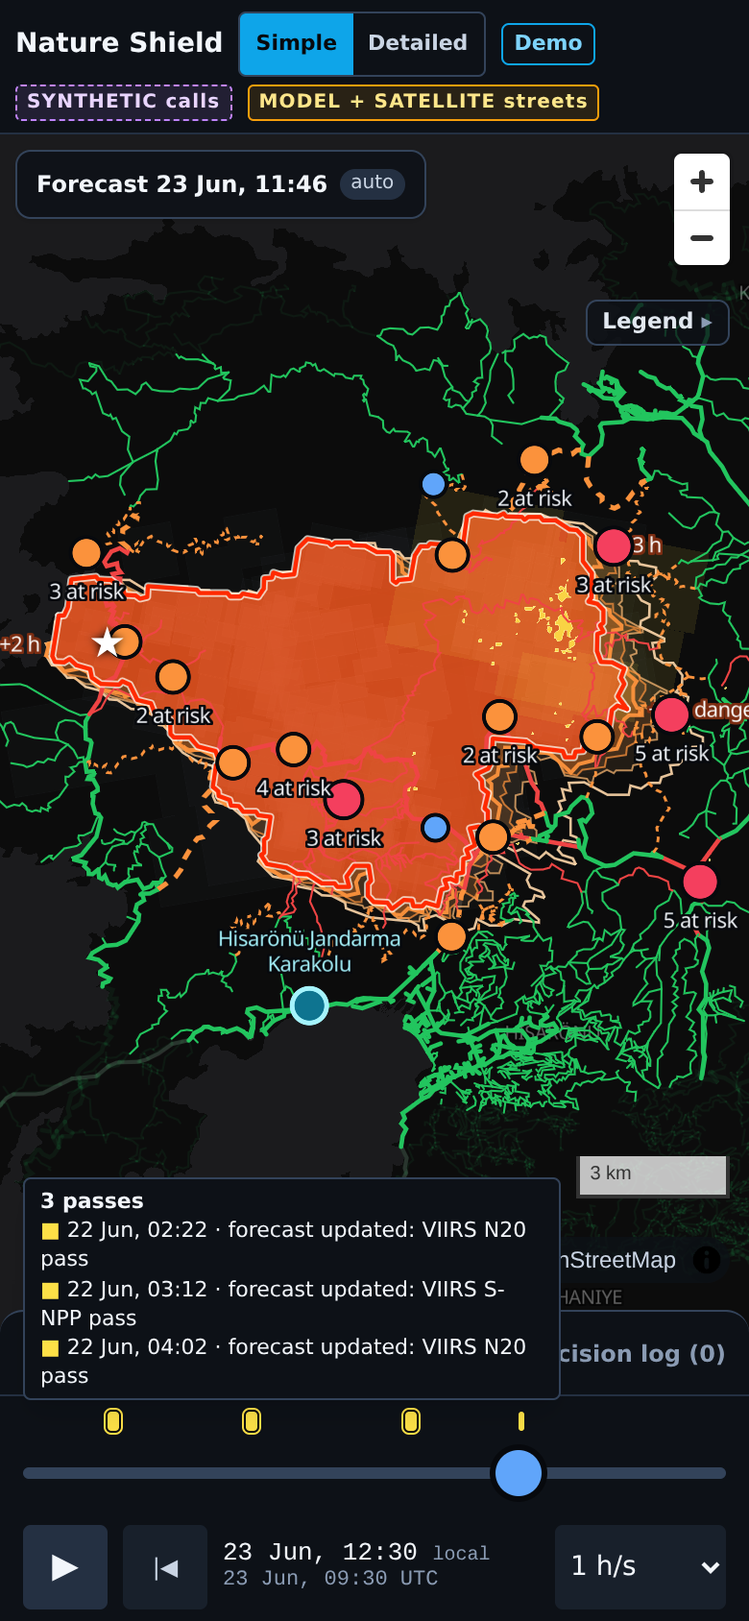
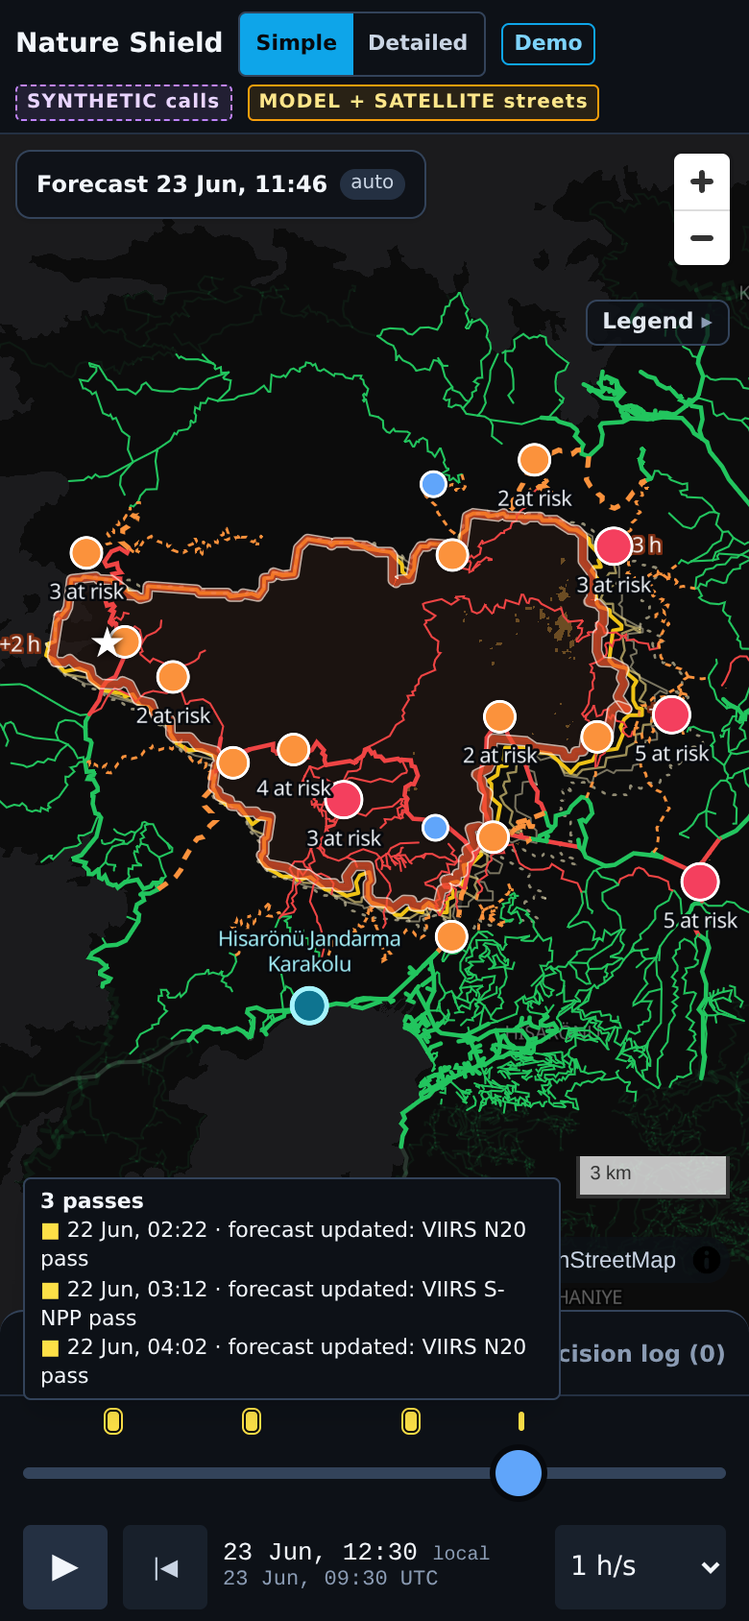
Calmer fire in Simple: dark burned ground, one bright front band, line-only horizons
Simple mode was tiring to look at: the whole estimated fire was bright orange and the satellite
squares piled up on top. Now:
- Inside "Fire now (estimated)" is burned ground: #2a1a14 at 50 %.
- The active front is a 300 m band along the estimated edge (half inside, half outside), one
  red-orange at 70 % with thin light edges: the first thing the eye finds.
- Satellite detections in Simple: only VIIRS pixels of the last 3 hours, 30 %, no edges; older ones
  and the 1 km MODIS / SLSTR squares are not drawn. Detailed is unchanged.
- Horizons are lines only: +1 h yellow 2 px, +2 / +3 h thinner and fainter, +6 h dotted; tags kept.
- Callers have a thin white edge and a soft dark shadow.

Before / after screenshots at 22 June 09:00 and 23 June 11:51 (desktop and phone) in docs/calm_*;
the other screenshots refreshed.

Changed region(s): [[0.0615, 0.2773, 1.0, 0.5853], [0.8923, 0.5237, 0.9538, 0.5545]]

diff --git a/src/components/MapView.tsx b/src/components/MapView.tsx
@@ -21,20 +21,35 @@ export type LayerKey = 'forecast' | 'initial' | 'observed' | 'streets' | 'nearby
 export type MapMode = 'simple' | 'detailed';
 
 /** Layers that only exist in Detailed mode. */
-const DETAILED_ONLY = ['initial-pending', 'initial-reached', 'initial-label', 'streets-nearby', 'burned-area'];
+const DETAILED_ONLY = ['initial-pending', 'initial-reached', 'initial-label', 'streets-nearby', 'burned-area', 'hotspots-old'];
 /** Layers that only exist in Simple mode. */
 const SIMPLE_ONLY: string[] = [];
-/** "Fire now (estimated)": the strongest thing on the map, bright orange-red with a clear edge. */
-export const NOWCAST_COLOUR = '#ff4d1a';
-export const NOWCAST_EDGE = '#ff2a00';
-/** Horizons from the time shown: +1 h a clear "danger zone", +2 / +3 h lighter, +6 h only an outline. */
-export const ZONE_COLOUR = { h1: '#f97316', h2: '#fb923c', h3: '#fdba74', h6: '#fed7aa' } as const;
+/** "Fire now (estimated)": inside, burned ground (dark, low saturation, quiet); along its edge the active front, a
+ * band of FRONT_WIDTH_M in one red-orange with thin light edges: the thing the eye should find first. */
+export const NOWCAST_COLOUR = '#2a1a14';
+export const NOWCAST_OPACITY = 0.5;
+export const FRONT_COLOUR = '#f0532b';
+export const FRONT_EDGE = '#ffe2d4';
+export const FRONT_WIDTH_M = 300;
+/** Kept for swatches that show the estimated fire by its edge. */
+export const NOWCAST_EDGE = FRONT_COLOUR;
+/** Horizons from the time shown, lines only: +1 h yellow and clear, +2 / +3 h thinner and fainter, +6 h dotted. */
+export const ZONE_COLOUR = { h1: '#facc15', h2: '#fde68a', h3: '#fef3c7', h6: '#fef3c7' } as const;
 /** Kept for the legend of the forecast closure and older references. */
-export const FORECAST_FILL_COLOUR = ZONE_COLOUR.h1;
-/** Satellite detections of the last ACTIVE_FIRE_H hours are bright (active fire); older ones dark grey (burned). */
+export const FORECAST_FILL_COLOUR = '#f97316';
+/** Satellite detections. Simple: only VIIRS of the last SIMPLE_FIRE_H hours, small and faint (the burned ground
+ * already covers the older ones). Detailed: the last ACTIVE_FIRE_H hours bright, older ones dark grey. */
 export const ACTIVE_FIRE_H = 6;
+export const SIMPLE_FIRE_H = 3;
 export const ACTIVE_FIRE_COLOUR = '#fde047';
+export const SIMPLE_FIRE_COLOUR = '#ffb547';
 export const OLD_FIRE_COLOUR = '#4b5563';
+
+/** Line width in pixels of `metres` on the ground at this map latitude (about 36.85° N), for any zoom. */
+function metresWidth(metres: number): ExpressionSpecification {
+  const mpp0 = 156543.03 * Math.cos((36.85 * Math.PI) / 180);       // metres per pixel at zoom 0
+  return ['interpolate', ['exponential', 2], ['zoom'], 8, (metres * 2 ** 8) / mpp0, 18, (metres * 2 ** 18) / mpp0];
+}
 /** Streets closed by the forecast only: orange, dashed; observed closures are solid red. */
 export const FORECAST_CLOSURE_COLOUR = '#fb923c';
 
@@ -42,12 +57,12 @@ export const FORECAST_CLOSURE_COLOUR = '#fb923c';
 const NEARBY_RADIUS_M = 1000;
 
 const LAYER_GROUPS: Record<LayerKey, string[]> = {
-  forecast: ['forecast-zones', 'forecast-zone-lines', 'nowcast-fill', 'nowcast-casing', 'nowcast-edge', 'forecast-tag'],
+  forecast: ['forecast-zone-lines', 'forecast-zone-dotted', 'nowcast-fill', 'front-band', 'front-edges', 'forecast-tag'],
   initial: ['initial-pending', 'initial-reached', 'initial-label'],
   observed: ['hotspots-old', 'hotspots', 'burned-area', 'flame-front'],
   streets: ['streets-near', 'streets', 'streets-forecast'],
   nearby: ['streets-nearby'],
-  callers: ['callers-selected', 'callers', 'callers-label'],
+  callers: ['callers-shadow', 'callers-selected', 'callers', 'callers-label'],
   crews: ['routes-casing', 'routes', 'routes-cut', 'responders', 'responders-label'],
   concept: ['report-points', 'cluster-fill', 'cluster-line', 'cluster-line-confirmed', 'cluster-label'],
 };
@@ -175,8 +190,13 @@ export function MapView({ data, now, layers, selectedId, nearIds, stages, routes
     map.setFilter('initial-pending', ['all', initial, ['>', ['get', 't'], t]]);
     // Satellite detections: the last ACTIVE_FIRE_H hours are active fire (bright), older ones burned (dark grey).
     const recent: ExpressionSpecification = ['>', ['get', 't'], t - ACTIVE_FIRE_H * 3600000];
-    map.setFilter('hotspots', ['all', obs('hotspots'), upTo, recent]);
-    map.setFilter('flame-front', ['all', obs('flame_front'), upTo]);
+    const simpleMode = latest.current.mode === 'simple';
+    // Simple: only VIIRS of the last SIMPLE_FIRE_H hours (the 1 km pixels are large squares that hide the map).
+    map.setFilter('hotspots', simpleMode
+      ? ['all', obs('hotspots'), upTo, ['>', ['get', 't'], t - SIMPLE_FIRE_H * 3600000], ['==', ['get', 'instrument'], 'VIIRS']]
+      : ['all', obs('hotspots'), upTo, recent]);
+    map.setFilter('flame-front', simpleMode ? ['all', obs('flame_front'), upTo, ['>', ['get', 't'], t - SIMPLE_FIRE_H * 3600000]]
+      : ['all', obs('flame_front'), upTo]);
     map.setFilter('burned-area', ['all', obs('burned_area'), upTo]);
     map.setFilter('streets-near', ['in', ['get', 'id'], ['literal', near]]);
     // Blocked by a satellite detection only (the model has not reached the street yet): dashed red.
@@ -187,13 +207,14 @@ export function MapView({ data, now, layers, selectedId, nearIds, stages, routes
     map.setFilter('streets', ['!', forecastOnlyExpr]);
     // Active fire: one bright colour in Simple, the sensor colours in Detailed. The 1 km MODIS / SLSTR pixels stay
     // light so they do not hide the estimated fire under them.
-    map.setPaintProperty('hotspots', 'fill-color', simple ? ACTIVE_FIRE_COLOUR : INSTRUMENT_COLOUR);
-    map.setPaintProperty('hotspots', 'fill-opacity', ['match', ['get', 'instrument'], 'VIIRS', simple ? 0.32 : 0.4, simple ? 0.1 : 0.15]);
+    map.setPaintProperty('hotspots', 'fill-color', simple ? SIMPLE_FIRE_COLOUR : INSTRUMENT_COLOUR);
+    map.setPaintProperty('hotspots', 'fill-opacity', ['match', ['get', 'instrument'], 'VIIRS', simple ? 0.3 : 0.4, simple ? 0.1 : 0.15]);
     map.setPaintProperty('hotspots', 'fill-outline-color', simple ? 'rgba(0,0,0,0)' : INSTRUMENT_COLOUR);
     // Older detections (burned): dark grey in both modes, the 1 km pixels hardly at all.
     map.setFilter('hotspots-old', ['all', obs('hotspots'), upTo, ['!', recent]]);
-    map.setPaintProperty('flame-front', 'fill-color', ['case', recent, ACTIVE_FIRE_COLOUR, OLD_FIRE_COLOUR]);
-    map.setPaintProperty('flame-front', 'fill-opacity', ['case', recent, 0.9, 0.5]);
+    map.setPaintProperty('flame-front', 'fill-color', simple ? SIMPLE_FIRE_COLOUR : ['case', recent, ACTIVE_FIRE_COLOUR, OLD_FIRE_COLOUR]);
+    map.setPaintProperty('flame-front', 'fill-opacity', simple ? 0.35 : ['case', recent, 0.9, 0.5]);
+    map.setPaintProperty('flame-front', 'fill-outline-color', simple ? 'rgba(0,0,0,0)' : '#fef08a');
 
     // Fire nearby: a coarse pixel covers the street and neither source has closed it yet. (Not `t > now`:
     // a street that is never closed has t = scenario start.)
@@ -301,21 +322,23 @@ export function MapView({ data, now, layers, selectedId, nearIds, stages, routes
       // active fire of the last hours on top of it. All under the streets, so roads stay readable.
       map.addLayer({ id: 'hotspots-old', type: 'fill', source: 'fire',
         paint: { 'fill-color': OLD_FIRE_COLOUR, 'fill-opacity': ['match', ['get', 'instrument'], 'VIIRS', 0.32, 0.05] } });
-      map.addLayer({ id: 'forecast-zones', type: 'fill', source: 'nowcast', filter: ['match', ['get', 'role'], ['h1', 'h2', 'h3'], true, false],
-        paint: { 'fill-color': ['match', ['get', 'role'], 'h1', ZONE_COLOUR.h1, 'h2', ZONE_COLOUR.h2, ZONE_COLOUR.h3],
-          'fill-opacity': ['match', ['get', 'role'], 'h1', 0.3, 'h2', 0.15, 0.09] } });
       map.addLayer({ id: 'nowcast-fill', type: 'fill', source: 'nowcast', filter: ['==', ['get', 'role'], 'now'],
-        paint: { 'fill-color': NOWCAST_COLOUR, 'fill-opacity': 0.62 } });
+        paint: { 'fill-color': NOWCAST_COLOUR, 'fill-opacity': NOWCAST_OPACITY } });
       map.addLayer({ id: 'hotspots', type: 'fill', source: 'fire',
         paint: { 'fill-color': INSTRUMENT_COLOUR, 'fill-opacity': ['match', ['get', 'instrument'], 'VIIRS', 0.3, 0.1] } });
       map.addLayer({ id: 'burned-area', type: 'line', source: 'fire',
         paint: { 'line-color': '#9ca3af', 'line-width': 1.5, 'line-opacity': 0.8 } });
       map.addLayer({ id: 'flame-front', type: 'fill', source: 'fire',
         paint: { 'fill-color': ACTIVE_FIRE_COLOUR, 'fill-opacity': 0.9, 'fill-outline-color': '#fef08a' } });
-      map.addLayer({ id: 'forecast-zone-lines', type: 'line', source: 'nowcast', filter: ['!=', ['get', 'role'], 'now'],
-        paint: { 'line-color': ['match', ['get', 'role'], 'h1', '#fb923c', 'h2', ZONE_COLOUR.h2, 'h3', ZONE_COLOUR.h3, ZONE_COLOUR.h6],
-          'line-width': ['match', ['get', 'role'], 'h1', 2, 'h6', 1.3, 1],
-          'line-opacity': ['match', ['get', 'role'], 'h1', 0.95, 'h6', 0.9, 0.7] } });
+      // Horizons: lines only, +1 h clear, +2 / +3 h thinner and fainter, +6 h dotted.
+      map.addLayer({ id: 'forecast-zone-lines', type: 'line', source: 'nowcast', filter: ['match', ['get', 'role'], ['h1', 'h2', 'h3'], true, false],
+        layout: { 'line-join': 'round' },
+        paint: { 'line-color': ['match', ['get', 'role'], 'h1', ZONE_COLOUR.h1, 'h2', ZONE_COLOUR.h2, ZONE_COLOUR.h3],
+          'line-width': ['match', ['get', 'role'], 'h1', 2, 'h2', 1.2, 1],
+          'line-opacity': ['match', ['get', 'role'], 'h1', 0.95, 'h2', 0.6, 0.45] } });
+      map.addLayer({ id: 'forecast-zone-dotted', type: 'line', source: 'nowcast', filter: ['==', ['get', 'role'], 'h6'],
+        layout: { 'line-cap': 'round', 'line-join': 'round' },
+        paint: { 'line-color': ZONE_COLOUR.h6, 'line-width': 1.4, 'line-opacity': 0.55, 'line-dasharray': [0.1, 2.5] } });
 
       map.addLayer({ id: 'streets-near', type: 'line', source: 'streets',
         layout: { 'line-cap': 'round' }, paint: { 'line-color': '#ffffff', 'line-width': 9, 'line-opacity': 0.9 } });
@@ -341,11 +364,14 @@ export function MapView({ data, now, layers, selectedId, nearIds, stages, routes
             10, ['match', ['get', 'highway'], 'track', 1.2, 2.2],
             14, ['match', ['get', 'highway'], 'track', 2.6, 4.5]] } });
 
-      // The edge of the estimated fire now: over the streets, so it stays the clearest line on the map.
-      map.addLayer({ id: 'nowcast-casing', type: 'line', source: 'nowcast', filter: ['==', ['get', 'role'], 'now'],
-        layout: { 'line-join': 'round' }, paint: { 'line-color': '#fff7ed', 'line-width': 4, 'line-opacity': 0.75 } });
-      map.addLayer({ id: 'nowcast-edge', type: 'line', source: 'nowcast', filter: ['==', ['get', 'role'], 'now'],
-        layout: { 'line-join': 'round' }, paint: { 'line-color': NOWCAST_EDGE, 'line-width': 2.2 } });
+      // The active front: a band of FRONT_WIDTH_M along the edge of the estimated fire (half inside, half outside: the
+      // edge is an estimate), one colour, with thin light edges. Under the routes and callers.
+      map.addLayer({ id: 'front-band', type: 'line', source: 'nowcast', filter: ['==', ['get', 'role'], 'now'],
+        layout: { 'line-join': 'round', 'line-cap': 'round' },
+        paint: { 'line-color': FRONT_COLOUR, 'line-opacity': 0.7, 'line-width': metresWidth(FRONT_WIDTH_M) } });
+      map.addLayer({ id: 'front-edges', type: 'line', source: 'nowcast', filter: ['==', ['get', 'role'], 'now'],
+        layout: { 'line-join': 'round' },
+        paint: { 'line-color': FRONT_EDGE, 'line-opacity': 0.75, 'line-width': 0.8, 'line-gap-width': metresWidth(FRONT_WIDTH_M) } });
 
       // Crew routes: drawn over the streets; a route cut by a newly blocked street turns dashed amber.
       map.addLayer({ id: 'routes-casing', type: 'line', source: 'streets', layout: { 'line-cap': 'round', 'line-join': 'round' },
@@ -383,13 +409,18 @@ export function MapView({ data, now, layers, selectedId, nearIds, stages, routes
           'text-offset': [0, -1.4], 'text-anchor': 'bottom', 'text-allow-overlap': false, 'text-padding': 4 },
         paint: { 'text-color': '#a5f3fc', 'text-halo-color': '#07090d', 'text-halo-width': 1.5 } });
 
+      // A soft dark shadow under each caller, so the dots stay readable on the fire.
+      map.addLayer({ id: 'callers-shadow', type: 'circle', source: 'callers',
+        paint: { 'circle-radius': ['match', ['get', 'urgency'], 'life_threat', 13, 'urgent', 11.5, 10], 'circle-color': '#000000',
+          'circle-opacity': 0.45, 'circle-blur': 0.6 } });
       map.addLayer({ id: 'callers-selected', type: 'circle', source: 'callers',
         paint: { 'circle-radius': 17, 'circle-color': 'rgba(255,255,255,0.15)', 'circle-stroke-color': '#ffffff', 'circle-stroke-width': 2.5 } });
       map.addLayer({ id: 'callers', type: 'circle', source: 'callers',
         paint: { 'circle-radius': ['match', ['get', 'urgency'], 'life_threat', 9, 'urgent', 7.5, 6],
           'circle-color': ['get', 'colour'],
-          'circle-stroke-color': ['match', ['get', 'stage'], 'new', '#07090d', ['get', 'ring']],
-          'circle-stroke-width': ['match', ['get', 'stage'], 'new', 2, 'taken', 2.5, 3.5] } });
+          // A new caller has a thin white edge; once handled the ring takes the stage colour.
+          'circle-stroke-color': ['match', ['get', 'stage'], 'new', '#ffffff', ['get', 'ring']],
+          'circle-stroke-width': ['match', ['get', 'stage'], 'new', 1.5, 'taken', 2.5, 3.5] } });
       // CONCEPT DEMO: reports from people (points) and candidate clusters (uncertainty discs, dashed until confirmed).
       map.addSource('report-points', { type: 'geojson', data: { type: 'FeatureCollection', features: [] } });
       map.addSource('clusters', { type: 'geojson', data: { type: 'FeatureCollection', features: [] } });
@@ -424,7 +455,7 @@ export function MapView({ data, now, layers, selectedId, nearIds, stages, routes
 
       // One click handler, most specific feature first: caller, response point, street, fire front.
       const CLICKABLE = ['callers', 'report-points', 'cluster-fill', 'responders', 'streets', 'streets-forecast', 'flame-front', 'hotspots',
-        'nowcast-fill', 'forecast-zones', 'forecast-zone-lines', 'initial-reached', 'initial-pending', 'burned-area', 'hotspots-old'];
+        'front-band', 'nowcast-fill', 'forecast-zone-lines', 'forecast-zone-dotted', 'initial-reached', 'initial-pending', 'burned-area', 'hotspots-old'];
       const muted = (text: string) => `<div class="ns-muted">${text}</div>`;
       const tag = (p: { synthetic?: boolean; basis?: string }) => (p.synthetic ? '<span class="synthetic-tag">SYNTHETIC</span>'
         : p.basis === 'fire_model' ? '<span class="model-tag">MODEL OUTPUT</span>'
@@ -502,7 +533,7 @@ export function MapView({ data, now, layers, selectedId, nearIds, stages, routes
             + (closure && (p.ts ?? 9e15) <= t && (p.satellite_reason ?? p.reason) ? muted(p.satellite_reason ?? p.reason ?? '') : '')
             + (p.imagery_date ? muted(`Imagery: ${p.imagery_date}`) : '')
             + muted(p.confirmed_by_operator ? 'Confirmed by operator' : 'Not confirmed by an operator') + tag(p);
-        } else if (['nowcast-fill', 'forecast-zones', 'forecast-zone-lines'].includes(hit.layer.id)) {
+        } else if (['front-band', 'nowcast-fill', 'forecast-zone-lines', 'forecast-zone-dotted'].includes(hit.layer.id)) {
           const nc = latest.current.nowcast;
           if (!nc) return;
           const role = hit.properties.role as string;
@@ -510,8 +541,9 @@ export function MapView({ data, now, layers, selectedId, nearIds, stages, routes
           const src = nowcastSource(nc.run, (x) => fmtTime(x, tz));
           html = role === 'now'
             ? `<b>Fire now (estimated)</b><div>Modelled fire extent for ${fmtTime(f.valid_t, tz)}, P ≥ 50 % · ${f.area_km2.toFixed(1)} km²</div>`
+              + `<div>Dark inside: burned ground. Bright band: the active front (${FRONT_WIDTH_M} m along the estimated edge).</div>`
               + `<div>${src}</div>` + muted(`Forecast issued ${fmtTime(nc.run.issuedAt, tz)}, advanced ${f.step} h. A model estimate, not an observation.`)
-            : `<b>${role === 'h1' ? 'Danger zone: fire within 1 h' : `Forecast +${f.h} h`}</b>`
+            : `<b>${role === 'h1' ? 'Fire within 1 h (+1 h line)' : `Forecast +${f.h} h`}</b>`
               + `<div>Modelled fire extent by ${fmtTime(f.valid_t, tz)}, P ≥ 50 % · ${f.area_km2.toFixed(1)} km²</div>`
               + muted(`Forecast issued ${fmtTime(nc.run.issuedAt, tz)} from ${nc.run.from}`);
         } else {
@@ -633,7 +665,7 @@ function nowcastTagPoints(nc: Nowcast | null): GeoJSON.FeatureCollection {
     const pts = rings.flat();
     if (!pts.length) continue;
     const tip = (score: (c: number[]) => number) => pts.reduce((a, b) => (score(b) > score(a) ? b : a));
-    const text = p.role === 'now' ? 'Fire now (est.)' : p.role === 'h1' ? '+1 h danger zone' : `+${p.h} h`;
+    const text = p.role === 'now' ? 'Fire front (est.)' : `+${p.h} h`;
     for (const [side, score] of sides[p.role]) {
       features.push({ type: 'Feature', geometry: { type: 'Point', coordinates: tip(score) },
         properties: { role: p.role, horizon_hours: p.h, text, side, run_id: p.run_id } });
@@ -643,20 +675,20 @@ function nowcastTagPoints(nc: Nowcast | null): GeoJSON.FeatureCollection {
 }
 
 /** A line sample for the legend: solid, dashed or a halo, in the given colour. */
-function LineKey({ colour, dashed, halo, casing }: { colour: string; dashed?: boolean; halo?: boolean; casing?: string }) {
+function LineKey({ colour, dashed, dotted, halo, casing }: { colour: string; dashed?: boolean; dotted?: boolean; halo?: boolean; casing?: string }) {
   return (
     <svg width="26" height="10" aria-hidden="true" className="shrink-0">
       {casing && <line x1="2" y1="5" x2="24" y2="5" stroke={casing} strokeWidth="7" strokeLinecap="round" />}
       <line x1="2" y1="5" x2="24" y2="5" stroke={colour} strokeWidth={halo ? 8 : 3} strokeOpacity={halo ? 0.7 : 1}
-        strokeDasharray={dashed ? '4 3' : undefined} strokeLinecap={dashed ? 'butt' : 'round'} />
+        strokeDasharray={dashed ? '4 3' : dotted ? '0.1 4' : undefined} strokeLinecap={dashed ? 'butt' : 'round'} />
     </svg>
   );
 }
 
-function DotKey({ fill, ring }: { fill: string; ring?: string }) {
+function DotKey({ fill, ring, thin }: { fill: string; ring?: string; thin?: boolean }) {
   return (
     <svg width="26" height="14" aria-hidden="true" className="shrink-0">
-      <circle cx="13" cy="7" r="5" fill={fill} stroke={ring ?? '#07090d'} strokeWidth={ring ? 2.5 : 1.5} />
+      <circle cx="13" cy="7" r="5" fill={fill} stroke={ring ?? '#07090d'} strokeWidth={thin ? 1.2 : ring ? 2.5 : 1.5} />
     </svg>
   );
 }
@@ -691,29 +723,29 @@ function Legend({ mode, nearby, nowcast, timeZone }: { mode: MapMode; nearby: bo
           {row(<LineKey colour="#22d3ee" casing="#083344" />, 'Crew route')}
           {row(<LineKey colour="#fbbf24" dashed casing="#083344" />, 'Route cut')}
           <div className="pt-0.5" />
-          {row(<AreaKey fill={NOWCAST_COLOUR} opacity={0.75} edge={NOWCAST_EDGE} />, 'Fire now (estimated)')}
+          {row(<LineKey colour={FRONT_COLOUR} halo />, 'Active front (estimated)')}
+          {row(<AreaKey fill={NOWCAST_COLOUR} opacity={0.9} edge="#6b4a3e" />, 'Burned (estimated, inside the front)')}
           {nowcast && (
             <div className="whitespace-normal pl-8 text-[10px] leading-tight text-ink-400" data-legend-nowcast>
               {nowcastSource(nowcast.run, (x) => fmtTime(x, timeZone))}
             </div>
           )}
-          {row(<AreaKey fill={ZONE_COLOUR.h1} opacity={0.45} edge="#fb923c" />, '+1 h danger zone')}
-          {row(<AreaKey fill={ZONE_COLOUR.h2} opacity={0.25} />, '+2 h')}
-          {row(<AreaKey fill={ZONE_COLOUR.h3} opacity={0.15} />, '+3 h')}
-          {row(<LineKey colour={ZONE_COLOUR.h6} />, '+6 h (outline)')}
+          {row(<LineKey colour={ZONE_COLOUR.h1} />, '+1 h: fire may be here within 1 h')}
+          {row(<LineKey colour={ZONE_COLOUR.h2} />, '+2 h / +3 h (thinner, fainter)')}
+          {row(<LineKey colour={ZONE_COLOUR.h6} dotted />, '+6 h (dotted)')}
           {!simple && row(<LineKey colour={INITIAL_FORECAST_COLOUR} />, 'Initial forecast (at ignition)')}
-          {simple ? row(<AreaKey fill={ACTIVE_FIRE_COLOUR} opacity={0.6} />, `Active fire, satellite (last ${ACTIVE_FIRE_H} h)`)
+          {simple ? row(<AreaKey fill={SIMPLE_FIRE_COLOUR} opacity={0.35} />, `Fire seen by VIIRS (last ${SIMPLE_FIRE_H} h)`)
             : <>
               {row(<AreaKey fill="#ef4444" opacity={0.45} />, `VIIRS 375 m (last ${ACTIVE_FIRE_H} h)`)}
               {row(<AreaKey fill="#a855f7" opacity={0.3} />, 'MODIS 1 km')}
               {row(<AreaKey fill="#14b8a6" opacity={0.3} />, 'SLSTR 1 km')}
               {row(<AreaKey fill={ACTIVE_FIRE_COLOUR} opacity={0.9} />, 'Flame front (Sentinel-2)')}
             </>}
-          {row(<AreaKey fill={OLD_FIRE_COLOUR} opacity={0.6} />, `Burned / older detections (> ${ACTIVE_FIRE_H} h)`)}
+          {!simple && row(<AreaKey fill={OLD_FIRE_COLOUR} opacity={0.6} />, `Burned / older detections (> ${ACTIVE_FIRE_H} h)`)}
           <div className="pt-0.5" />
-          {row(<DotKey fill={URGENCY_COLOUR.life_threat} />, 'Caller: life threat')}
-          {row(<DotKey fill={URGENCY_COLOUR.urgent} />, 'Caller: urgent')}
-          {row(<DotKey fill={URGENCY_COLOUR.routine} />, 'Caller: routine')}
+          {row(<DotKey fill={URGENCY_COLOUR.life_threat} ring="#ffffff" thin />, 'Caller: life threat')}
+          {row(<DotKey fill={URGENCY_COLOUR.urgent} ring="#ffffff" thin />, 'Caller: urgent')}
+          {row(<DotKey fill={URGENCY_COLOUR.routine} ring="#ffffff" thin />, 'Caller: routine')}
           {row(<DotKey fill="#8a9bb3" ring={STAGE_COLOUR.dispatched} />, 'Crew dispatched (ring)')}
           {row(<DotKey fill="#0e7490" ring="#a5f3fc" />, 'Fire station / gendarmerie')}
         </div>

diff --git a/src/components/SidePanel.tsx b/src/components/SidePanel.tsx
@@ -162,11 +162,11 @@ export function SidePanel({ data, now, timeZone, layers, mode, onToggle, crewSta
           <div data-nowcast-list>
             {nowcast.fc.features.slice().reverse().map(({ properties: f }) => (
               <div key={f.role} className="flex items-center gap-2 py-0.5">
-                <span className="inline-block h-2.5 w-5 rounded-sm"
-                  style={f.role === 'now' ? { background: NOWCAST_COLOUR, border: `1.5px solid ${NOWCAST_EDGE}` }
-                    : f.role === 'h6' ? { border: `1.5px solid ${ZONE_COLOUR.h6}` }
-                      : { background: ZONE_COLOUR[f.role as 'h1' | 'h2' | 'h3'], opacity: f.role === 'h1' ? 0.8 : f.role === 'h2' ? 0.55 : 0.35 }} />
-                <span>{f.role === 'now' ? 'Fire now (est.)' : f.role === 'h1' ? '+1 h danger zone' : `+${f.h} h`} · {f.area_km2.toFixed(1)} km²</span>
+                <span className="inline-block w-5 rounded-sm"
+                  style={f.role === 'now' ? { height: 10, background: NOWCAST_COLOUR, border: `2px solid ${NOWCAST_EDGE}` }
+                    : { height: 0, borderTop: `${f.role === 'h1' ? 2 : 1.5}px ${f.role === 'h6' ? 'dotted' : 'solid'} ${ZONE_COLOUR[f.role as 'h1' | 'h2' | 'h3' | 'h6']}`,
+                      opacity: f.role === 'h1' ? 1 : f.role === 'h6' ? 0.6 : 0.7 }} />
+                <span>{f.role === 'now' ? 'Fire now (est.)' : `+${f.h} h`} · {f.area_km2.toFixed(1)} km²</span>
                 <span className="ml-auto text-xs text-ink-400">{f.role === 'now' ? `for ${fmtTime(f.valid_t, timeZone)}` : `by ${fmtTime(f.valid_t, timeZone)}`}</span>
               </div>
             ))}

diff --git a/src/components/ForecastControl.tsx b/src/components/ForecastControl.tsx
@@ -81,7 +81,7 @@ export function ForecastControl({ load, previous, updateTo, blockedNote, newRepo
           {run.sourceNote && <div className="mt-1 text-amber-300">{run.sourceNote}</div>}
           {nowcast && (
             <div data-nowcast className="mt-1.5 flex gap-1.5 rounded bg-ink-800 px-1.5 py-1">
-              <span className="mt-0.5 h-3 w-3 shrink-0 rounded-sm border-2" style={{ background: '#ff4d1a', borderColor: '#ff2a00' }} />
+              <span className="mt-0.5 h-3 w-3 shrink-0 rounded-sm border-2" style={{ background: '#2a1a14', borderColor: '#f0532b' }} />
               <span>
                 <b>Fire now (estimated)</b> for {t(nowcast.stepAt)}: {nowcastSource(nowcast.run, t)}.
                 {nowcast.beyond.length > 0 && (

diff --git a/src/forecast.ts b/src/forecast.ts
@@ -260,7 +260,7 @@ export function obsLabel(p: FireFront): string {
   return `${p.instrument} ${SAT_NAME[p.satellite ?? ''] ?? p.satellite ?? ''}`.trim();
 }
 
-/** Horizons drawn from the time shown: +1 h is the "danger zone", +6 h only an outline. */
+/** Horizons drawn from the time shown, as lines: +1 h clear, +2 / +3 h fainter, +6 h dotted. */
 export const NOWCAST_HORIZONS = [1, 2, 3, 6] as const;
 
 export interface NowcastFeatureProps {

diff --git a/README.md b/README.md
@@ -48,16 +48,20 @@ Caller labels at the overview zoom and zoomed in: [overview](docs/13_labels_over
 The switch in the header changes how much the map shows (add `?mode=detailed` to a link to open in Detailed).
 
 - **Simple** (default):
-  - **Fire now (estimated)**, the strongest layer: the forecast in force advanced from its issue time to the time
-    shown (its last 30-minute contour not after it), bright orange-red with a clear edge. It is a model estimate,
-    and the forecast box, the legend and the popup say so: "estimated from last satellite pass at 04:02 (VIIRS N20)
-    + model".
-  - The horizons from the time shown, lighter and thinner on top of it: **+1 h** a clear "danger zone", **+2 h**
-    and **+3 h** lighter, **+6 h** only an outline. Each is tagged on the map.
-  - Satellite detections of the **last 6 hours** bright (active fire); older ones dark grey ("burned / older").
+  - **Fire now (estimated)**: the forecast in force advanced from its issue time to the time shown (its last
+    30-minute contour not after it). Inside it is drawn as burned ground, dark and quiet (#2a1a14 at 50 %); along
+    its edge the **active front** is a 300 m band in one red-orange with thin light edges, half inside and half
+    outside the estimated edge: the first thing the eye finds. It is a model estimate, and the forecast box, the
+    legend and the popup say so: "estimated from last satellite pass at 04:02 (VIIRS N20) + model".
+  - The horizons from the time shown, as lines only: **+1 h** a clear yellow line (2 px), **+2 h** and **+3 h**
+    thinner and fainter, **+6 h** dotted. Each is tagged on the map.
+  - Satellite detections: only VIIRS pixels of the **last 3 hours**, faint (30 %) and without edges; older ones are
+    not drawn (the burned ground covers them), nor the large 1 km MODIS / SLSTR squares.
+  - Callers have a thin white edge and a soft dark shadow, so they stay readable on the fire.
   - Closed roads (solid red: seen by satellite; orange dashed: forecast closure), callers, crews and their routes.
 - **Detailed**: adds the satellite sensors in their own colours (VIIRS, MODIS, SLSTR, Sentinel-2 flame front and
-  burned area), the initial forecast made at ignition and the "fire nearby" warning.
+  burned area; the last 6 hours bright, older ones dark grey), the initial forecast made at ignition and the
+  "fire nearby" warning.
 
 The **legend** is a small button under the zoom buttons; it opens there, on a translucent panel, and lists the
 lines and colours of the mode shown. "Fire nearby (satellite)" is a separate layer, off by default; when on,
@@ -73,6 +77,15 @@ force or a satellite pass closes it; before that the only note is what the forec
 by then, the faint/bright street styling uses only forecasts issued so far, and the time bar marks only
 forecasts already issued. `tools/test_no_hindsight.py` recomputes every street closure from the data available
 at 88 cut-off times and checks that the result matches the full scenario up to that time.
+
+Calmer fire styling in Simple, before and after (desktop; phone:
+[before](docs/calm_before_0900_phone.png) / [after](docs/calm_after_0900_phone.png) at 22 June 09:00,
+[before](docs/calm_before_1151_phone.png) / [after](docs/calm_after_1151_phone.png) at 23 June 11:51):
+
+| | 22 June 09:00 | 23 June 11:51 |
+|---|---|---|
+| before | ![before, 22 June 09:00](docs/calm_before_0900_desktop.png) | ![before, 23 June 11:51](docs/calm_before_1151_desktop.png) |
+| after | ![after, 22 June 09:00](docs/calm_after_0900_desktop.png) | ![after, 23 June 11:51](docs/calm_after_1151_desktop.png) |
 
 | 22 June 04:30 | 23 June 11:51 |
 |---|---|
